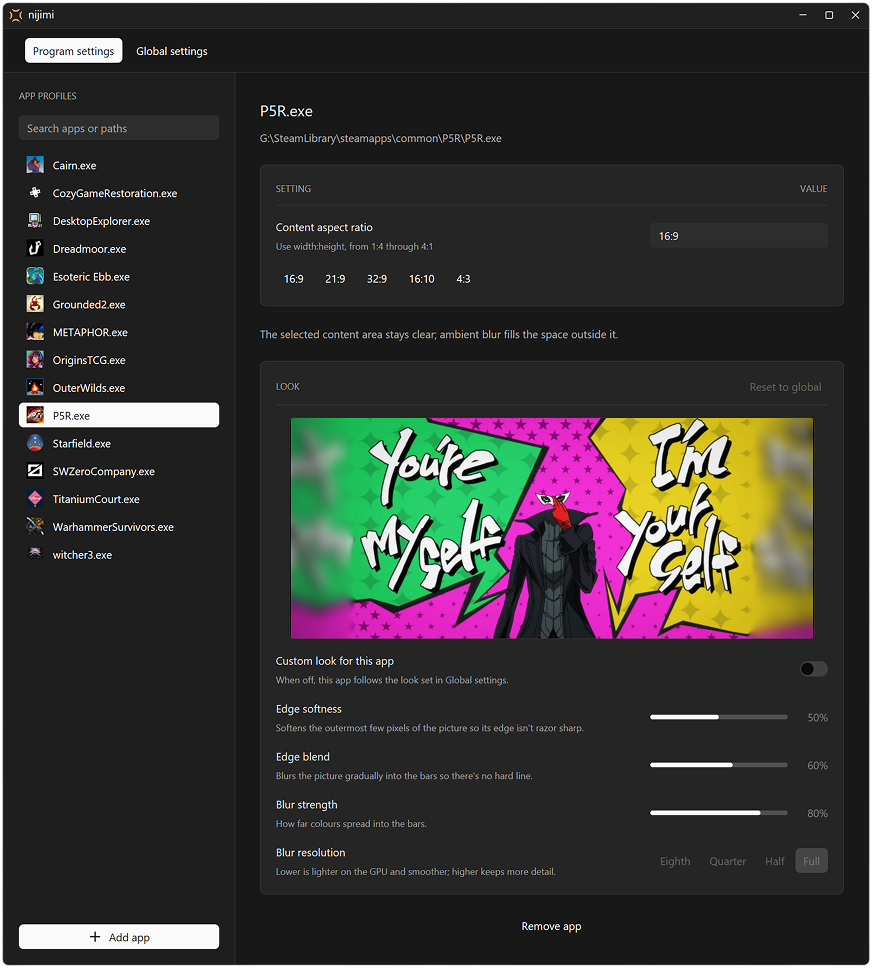
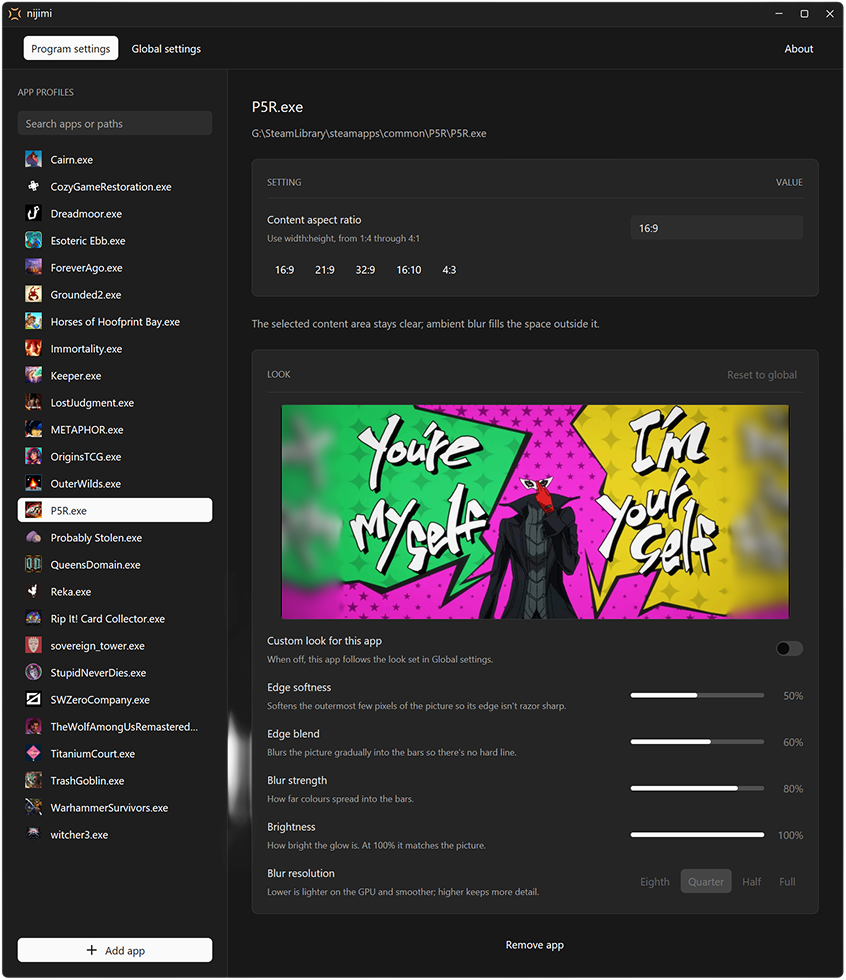
Update README

diff --git a/README.md b/README.md
@@ -28,11 +28,11 @@ A small Windows tray app that fills the black bars around a game with a soft, bl
 
 ## Why use it?
 
-- **Kinder to OLED screens.** Black bars leave their pixels unlit while the rest of the panel ages, so over time the bars can end up brighter than everything else (reverse burn-in). Lighting them with the game's own colours helps the whole screen wear more evenly ([caveat](#limitations)).
+- **Kinder to OLED screens.** Black bars leave their pixels unlit while the rest of the panel ages, so over time the bars can end up brighter than everything else (reverse burn-in). Lighting them with the game's own colours helps the whole screen wear more evenly.
 - **Ultrawide, but the game isn't?** Play 16:9 games on a 21:9 or 32:9 monitor, or 4:3 classics on a 16:9 one, without big dead slabs of black either side.
 - **Set it once, then forget it.** Give each game an aspect ratio. nijimi turns on when that game is in front and off when you Alt-Tab away.
-- **Costs your games next to nothing.** Everything runs on the GPU at about 0.07 ms a frame. Idle, it uses no CPU, no GPU and no GPU memory ([numbers](#performance)).
-- **Never touches the game.** No injection, no hooks, no driver. It's a separate click-through overlay that never covers the picture itself.
+- **Costs your games next to nothing.** Under 1% of the GPU while you play, and nothing at all when idle ([numbers](#performance)).
+- **Never touches the game.** No injection, no hooks, no driver. It's a separate click-through overlay that draws in the bars, not over the game.
 - **Portable.** One self-contained `.exe` and an INI file. No installer, no service.
 
 ## Getting started
@@ -45,7 +45,7 @@ A small Windows tray app that fills the black bars around a game with a soft, bl
 
 Closing Settings leaves nijimi in the tray. Click the tray icon to reopen Settings, or right-click it for **Exit**.
 
-**Requirements:** Windows 10 version 2004 or later, and a Direct3D 11 GPU. Nothing else, not even the Visual C++ Redistributable.
+**Requirements:** Windows 10 version 2004 or later, and a Direct3D 11 GPU. No runtimes to install.
 
 ## Settings
 
@@ -60,26 +60,26 @@ Closing Settings leaves nijimi in the tray. Click the tray icon to reopen Settin
 | Edge softness | Softens the picture's outermost few pixels |
 | Edge blend | Blurs the picture gradually into the bars instead of meeting them at a line |
 | Blur strength | How far the glow spreads |
-| Blur resolution | Full, half, quarter (default), or eighth. Lower is cheaper and softer |
+| Blur resolution | Full, half, quarter (default), or eighth - lower is cheaper |
 | Brightness | 100% matches the picture; 0% gives plain black bars |
 
 **Global:**
 
 | Setting | Default | What it does |
 |---|---|---|
-| Default aspect ratio | `21:9` | Used for new profiles, and for every app when Always on is set |
+| Default aspect ratio | `21:9` | Used for new profiles, and for apps without a profile when Always on is set |
 | Frame rate | 30 fps | Update the glow 30 or 60 times a second |
 | Always on | Off | Show the effect whatever app is in front |
 | Show in screenshots | Off | Let screenshots and recordings capture the glow |
 | Hide idle cursor | On | Hide the pointer after it rests in a bar for 2 s (handy with a controller) |
-| Start with Windows | Off | Start in the tray when you sign in. If you move the exe, toggle it off and on again |
+| Start with Windows | Off | Start in the tray when you sign in; if you move the exe, toggle it off and on again |
 
 <details>
 <summary>Where settings are stored</summary>
 
 - In `nijimi.ini` beside the executable. Copy both together to move your setup.
 - If that folder isn't writable (e.g. `Program Files`), settings go to `%APPDATA%\nijimi\nijimi.ini` instead. A file beside the exe always wins.
-- Unreadable lines (after a hand edit, say) are skipped and reported, and the original file is first backed up as `nijimi.ini.bad`.
+- If a hand edit breaks some lines, nijimi backs up the file as `nijimi.ini.bad`, skips those lines and tells you which ones.
 - Start with Windows uses `HKCU\Software\Microsoft\Windows\CurrentVersion\Run`, so it needs no admin rights and shows up in Task Manager's **Startup apps**.
 
 </details>
@@ -87,11 +87,10 @@ Closing Settings leaves nijimi in the tray. Click the tray icon to reopen Settin
 ## Limitations
 
 - **Primary display only.**
-- **Fixed ratio per game.** nijimi doesn't detect a game's real resolution, or content inside an ordinary window.
+- **Fixed ratio per game.** nijimi centres the ratio you set on the screen. It doesn't detect the game's actual resolution or window.
 - **Some content can't be captured,** such as protected video and some exclusive-fullscreen modes.
-- **Latency and VRR.** Any window over a game, this one included, makes Windows compose the game instead of showing it directly. That can add up to a frame of latency and may affect G-Sync/FreeSync on some setups. If it matters for a game, remove that game's profile.
+- **Older GPUs: latency and VRR.** Modern GPUs keep showing the game directly with nijimi on top, using multiplane overlays (MPO). Tested on an RTX 5090, it added no latency. On GPUs or drivers without MPO, Windows has to compose the game with the overlay instead, which can add up to a frame of latency and affect G-Sync/FreeSync. If that matters for a game, remove its profile.
 - **HDR.** The glow is drawn as SDR, at Windows' **SDR content brightness**. HDR highlights are clipped before the blur, which is hard to notice in a soft glow.
-- **Burn-in.** Lighting the bars may help OLED panels wear more evenly, but nijimi can't promise to prevent or reverse burn-in.
 
 ## Performance
 
@@ -107,7 +106,7 @@ Release build on a Ryzen 7 9800X3D and an RTX 5090 at 5120×2160, 165 Hz.
 
 Alt-Tab back within a minute and the overlay returns in about **11 ms**. After that, it takes about **110 ms**, mostly the driver creating a device. Either way the game keeps running normally.
 
-**While playing:** Persona 5 Royal, 60 s, default look (Quarter, 30 fps), Settings closed.
+**While playing:** Persona 5 Royal, 60 s, default settings (Quarter, 30 fps), Settings closed.
 
 | nijimi while active | |
 |---|---|
@@ -150,9 +149,10 @@ nijimi is written in Rust and runs as two processes from the same exe:
 
 - **Idle means idle.** With no game in front there's no capture, rendering or timers. GPU resources are kept for one minute (so a quick Alt-Tab is instant), then fully released.
 - **Shaders are precompiled** by `build.rs`, so the HLSL compiler never loads at runtime.
-- **Pacing** uses a high-resolution waitable timer (`SetTimer` only ticks every 15.6 ms). Ticks with no new desktop frame skip drawing. Above about 60 fps, presenting the overlay made the driver stall, so faster rates aren't offered.
+- **Pacing** uses a high-resolution waitable timer (`SetTimer` only ticks every 15.6 ms). Ticks with no new desktop frame skip drawing. Faster than about 60 fps, presenting the overlay makes the driver stall, so higher rates aren't offered.
 - **Recovery.** Lost capture (a UAC prompt, a mode switch) is retried with backoff up to 4 s, and resources are rebuilt after display changes.
-- **Idle cursor.** A 1×1 invisible window under the pointer hides it. System cursors are never changed, so a crash can't leave the cursor hidden.
+
+**Idle cursor:** a 1×1 invisible window under the pointer hides it. System cursors are never changed, so a crash can't leave the cursor hidden.
 
 ## Development
 
